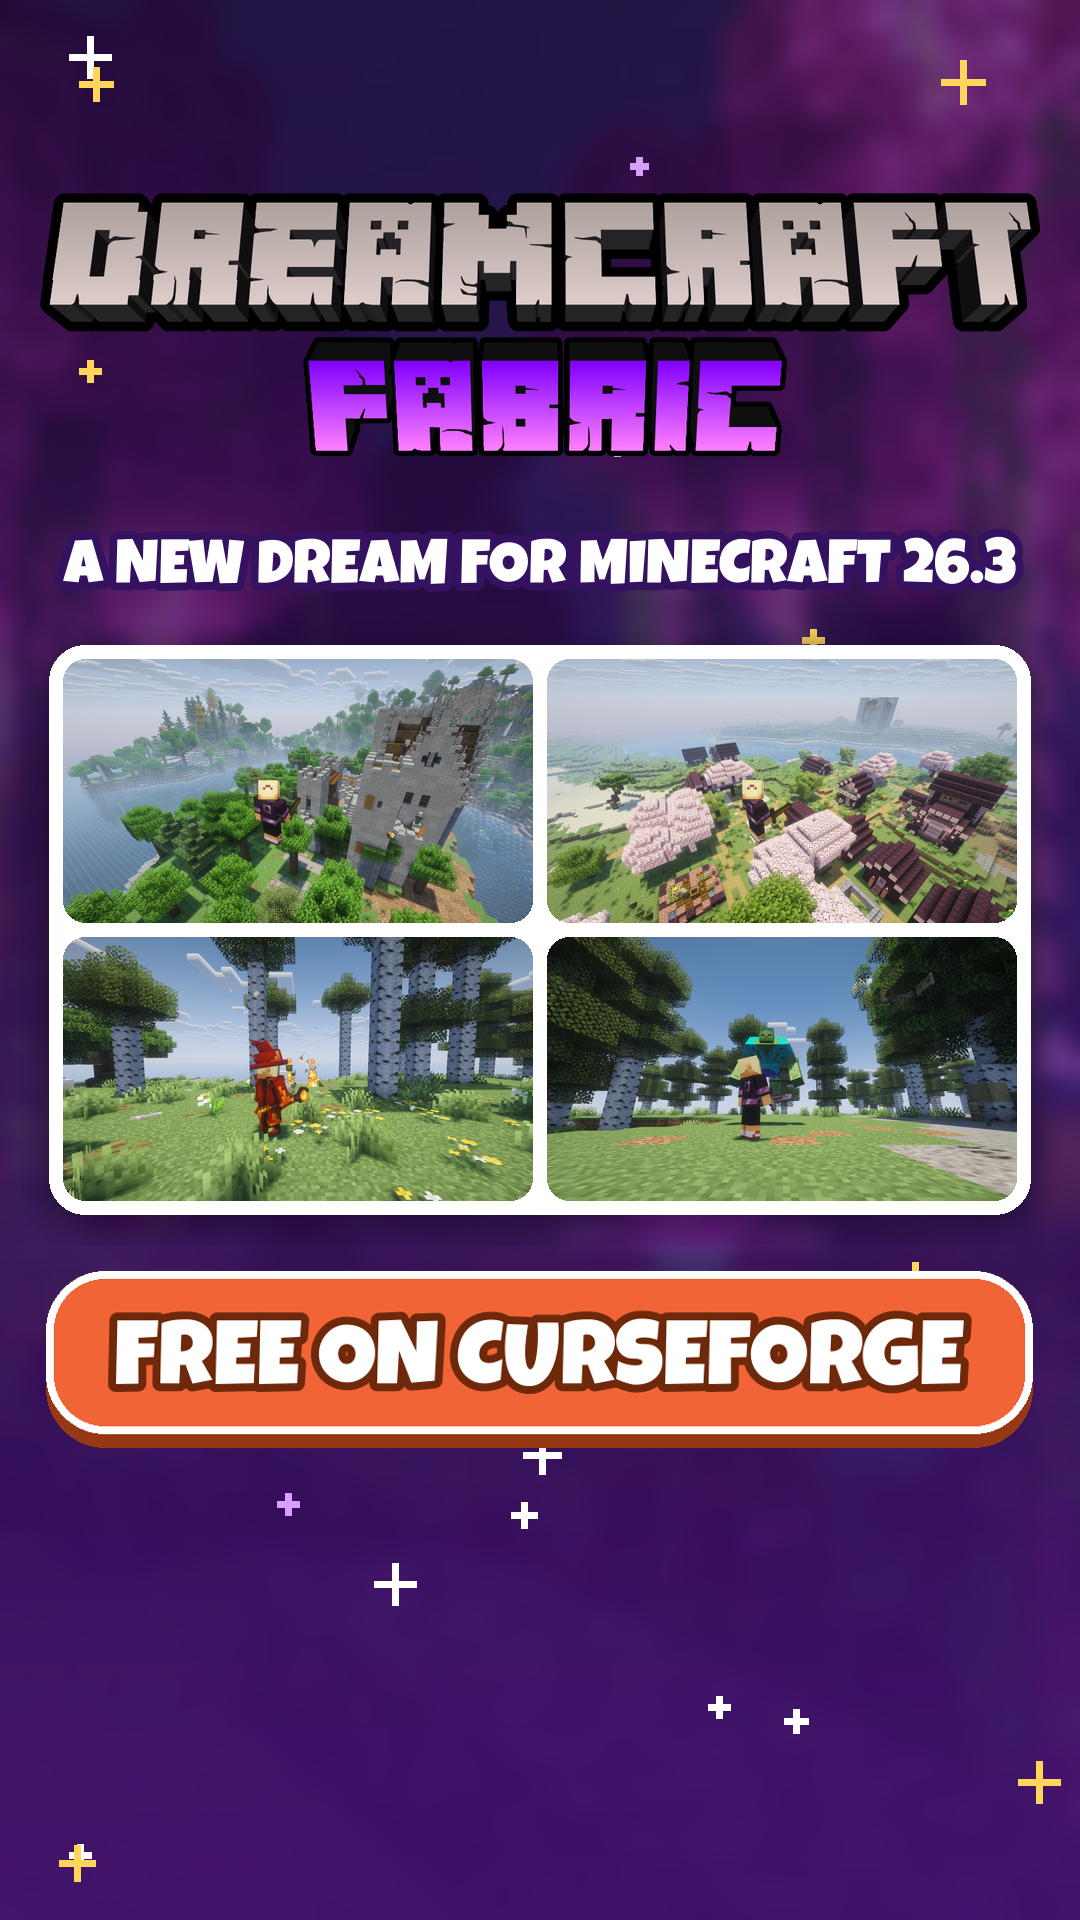
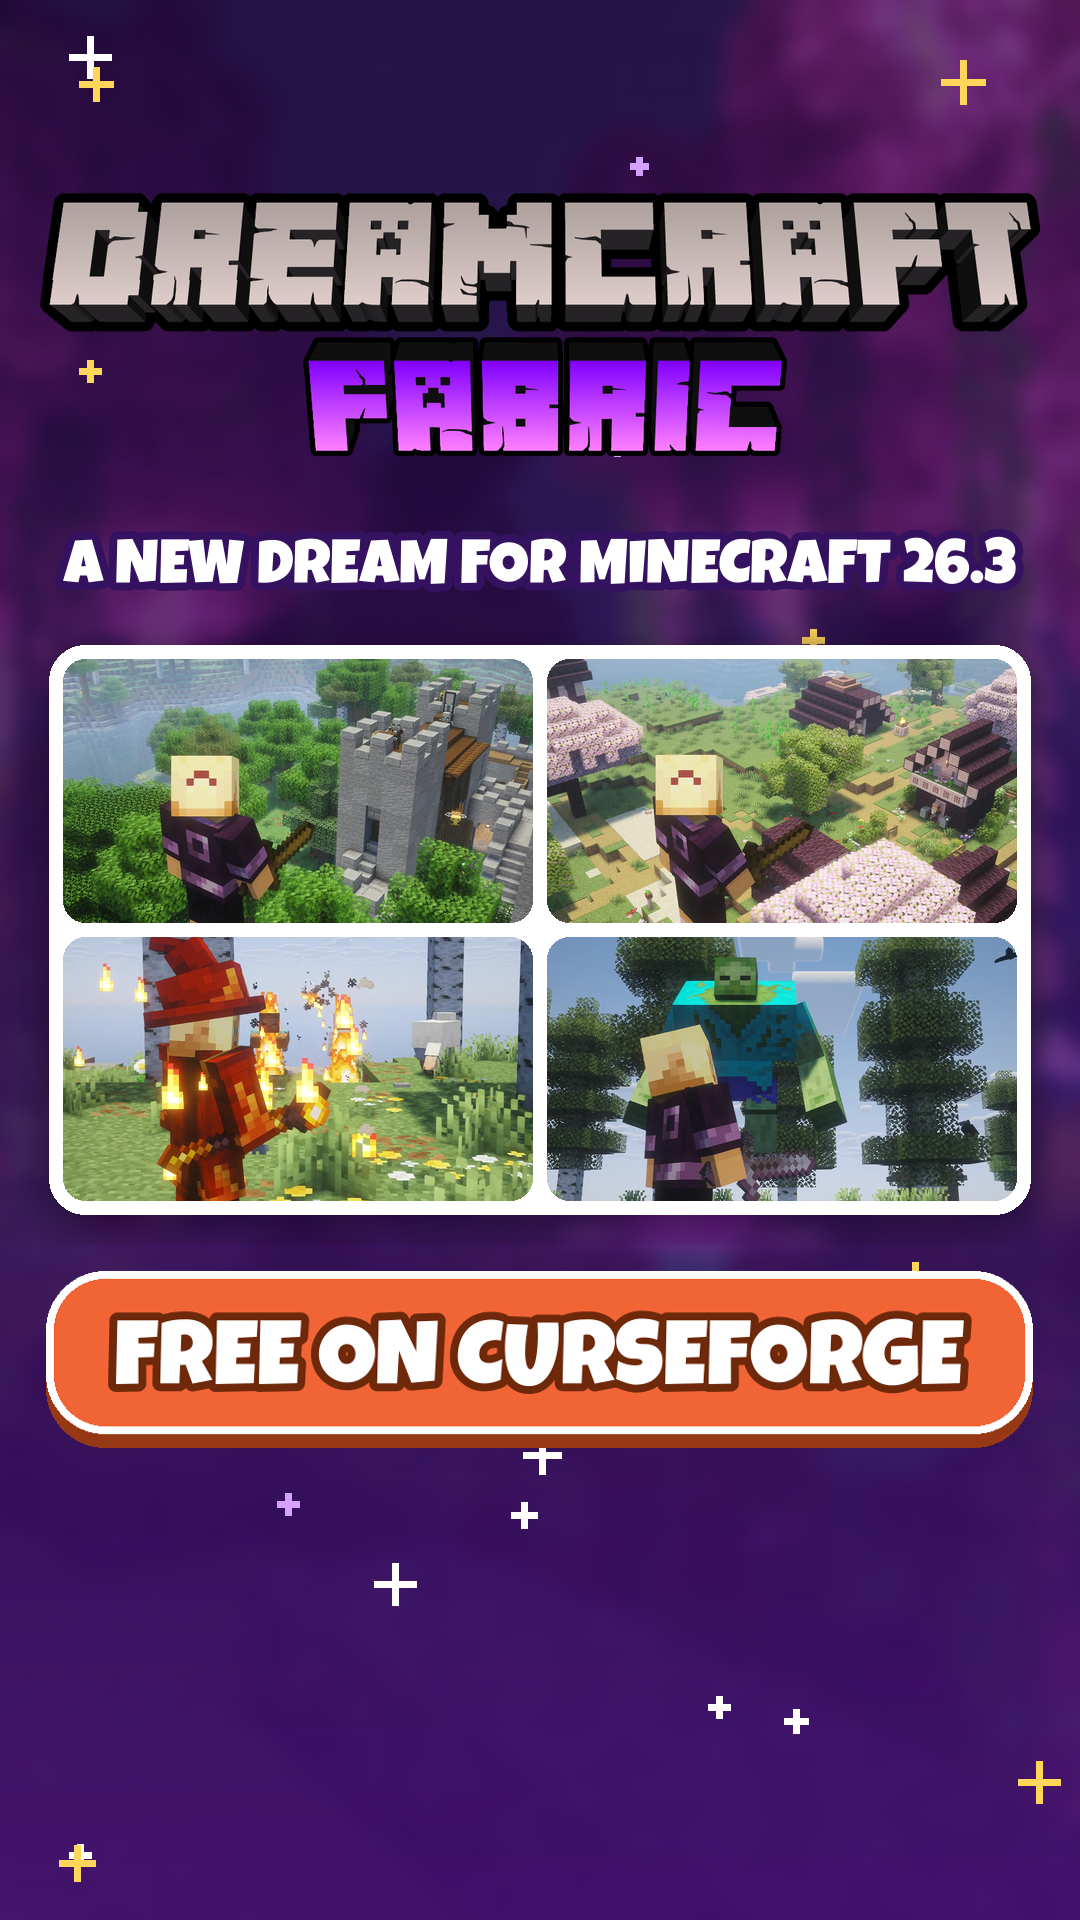
Dreamcraft trailer v3 (tools): "over three hundred quests", end card from shader frames
- script.py: line A2 says "over three hundred quests" (V1.4 has 348; the old line said 160)
- dc.py: end card held 0.7 s longer, so the trailer stays 44 s (the CurseForge page says 0:44)
- stills/endcard_short.png: end card rebuilt, the four tiles now come from the shader footage
  (footage/dc) with the player in every tile
The rendered videos follow in the next commit.

Claude-Session: https://claude.ai/code/session_01Fk46dch3whoyNRMPgRGf6J

Changed region(s): [[0.0611, 0.3438, 0.9472, 0.625]]

diff --git a/dreamcraft/tiktok/tools/script.py b/dreamcraft/tiktok/tools/script.py
@@ -14,7 +14,7 @@ SHORT = [
          text="This is *Dreamcraft*, over *two hundred and fifty* mods, and it already runs on the *newest* Minecraft!",
          shots=[('castle', None), ('mutant', 'over two hundred'), ('nether', 'and it already runs')]),
     dict(id='A2', capy=330,
-         text="It starts with a brand new *menu*, and a *story* with over one hundred and sixty quests guides you through every mod.",
+         text="It starts with a brand new *menu*, and a *story* with over three hundred quests guides you through every mod.",
          shots=[('menu_land', None), ('questbook', 'and a story'), ('kitchen', 'guides you')]),
     dict(id='A3',
          text="You explore giant *castles*, cozy *villages* and whole new worlds.",
@@ -46,7 +46,7 @@ HEARD = {'dreamcraft': ['dreamcraft', 'dreamcrafts', 'dreamcraftt'],
          'nether': ['nether', 'neither'],
          'mutant': ['mutant', 'mutants']}
 # Zahlen, die Whisper als Ziffern schreibt
-NUMS = {'250': 'two hundred and fifty', '160': 'one hundred and sixty', '26.3': 'twenty six point three'}
+NUMS = {'250': 'two hundred and fifty', '300': 'three hundred', '160': 'one hundred and sixty', '26.3': 'twenty six point three'}
 
 POST = dict(
     short=dict(

diff --git a/dreamcraft/tiktok/tools/dc.py b/dreamcraft/tiktok/tools/dc.py
@@ -28,7 +28,7 @@ PH_FILM = VID + '/film_ph'
 LEAD = 0.07                      # a cut lands this much before the word it belongs to
 
 CFG = dict(
-    short=dict(file='dreamcraft_tiktok', dir='', slow=1.06, lead_in=0.08, gap=0.22, gap_ch=0.22, tail=1.3,
+    short=dict(file='dreamcraft_tiktok', dir='', slow=1.06, lead_in=0.08, gap=0.22, gap_ch=0.22, tail=2.0,
                cap_size=84, cap_y=1400, maxc=30, maxw=6, maxclip=2.4, crf=20, preset='slow', whoosh=0.08,
                fade_in=0.3, fade_out=2.0, hook_end=2.4, music_under=0.14),
 )
